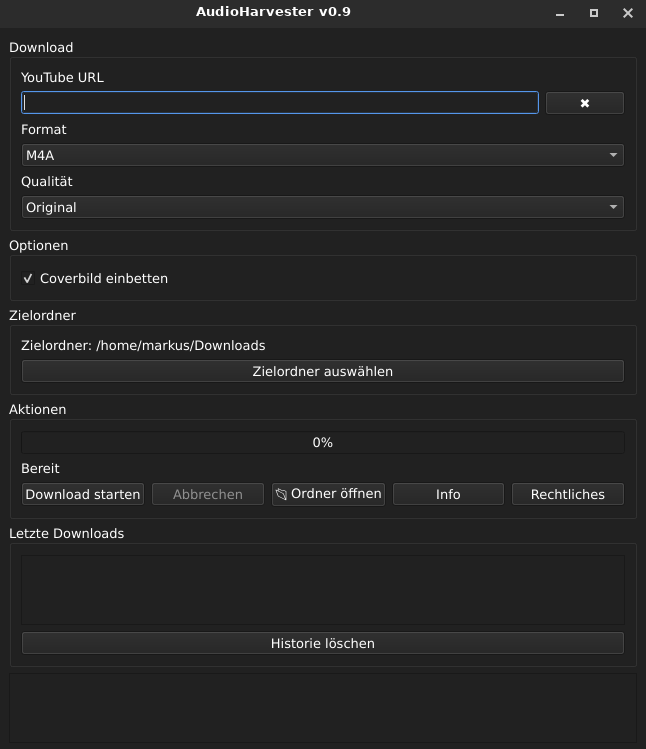
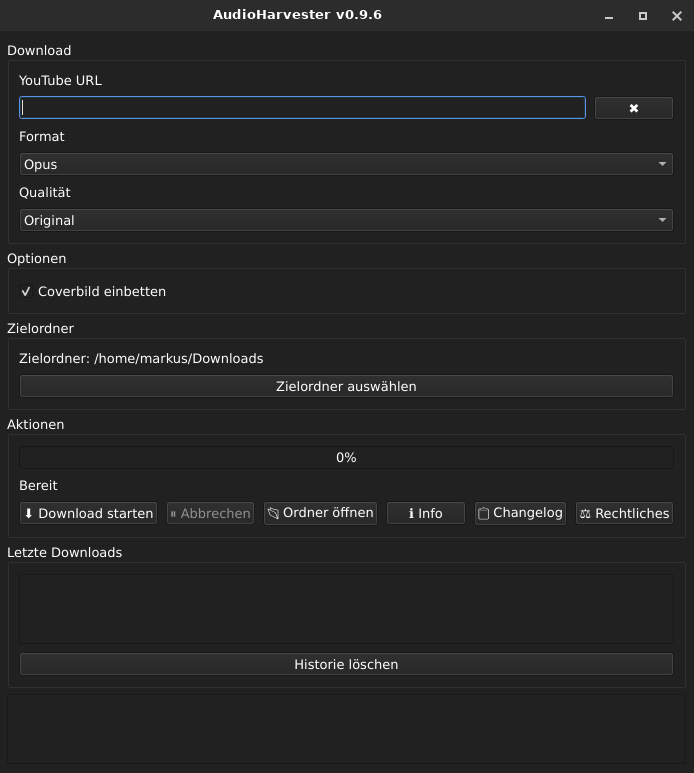
Improve PNG and  README

diff --git a/README.md b/README.md
@@ -29,13 +29,13 @@ Built with **Python** and **PyQt6**.
 
 ![Main Window](screenshots/main-window.png)
 
-### Legal Notice
-
-![Legal Notice](screenshots/legal-dialog.png)
-
 ### About Dialog
 
 ![About Dialog](screenshots/about-dialog.png)
+
+### Legal Notice
+
+![Legal Notice](screenshots/legal-dialog.png)
 
 ## Requirements
 